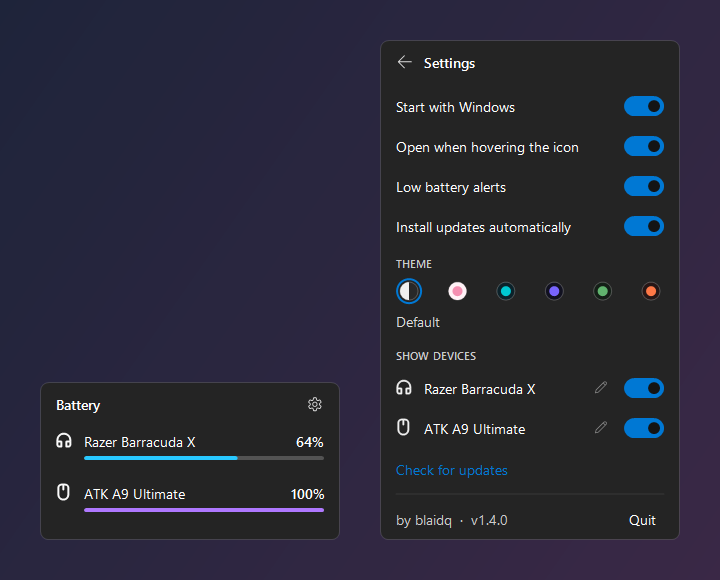
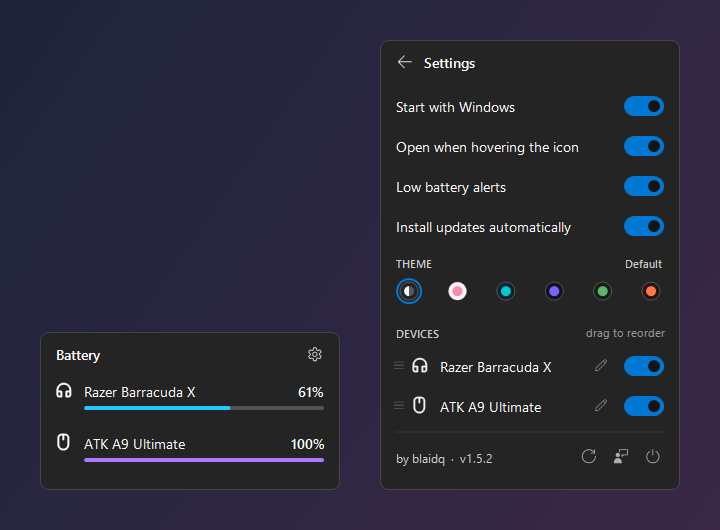
v1.5.2: alerts at 25/10/5, Default swatch, new screenshots
- Low battery alerts at 25%, 10% and 5% (devices like the ASUS Pugio II
  only report 25% steps, so 20% never fired).
- Default theme swatch drawn like the others.
- README: fresh screenshots; ASUS Pugio II marked as tested.

diff --git a/src/UI.cs b/src/UI.cs
@@ -577,8 +577,9 @@ class BatteryUI : ApplicationContext
         d.Active = (DateTime.Now - d.LastOk).TotalSeconds <= GraceSeconds;
         if (!d.Active) return;
         if (d.Last.Charging) { d.LastWarn = 101; return; }
-        // lowest threshold first: starting at 8% gives one alert (10%), not two in a row
-        foreach (int lvl in new[] { 5, 10, 20 })
+        // 25 / 10 / 5: some devices (e.g. ASUS Pugio II) only report 0-25-50-75-100, so 20 would never trigger.
+        // Lowest threshold first: starting at 8% gives one alert (10%), not two in a row.
+        foreach (int lvl in new[] { 5, 10, 25 })
             if (d.Last.Percent <= lvl && d.LastWarn > lvl)
             {
                 d.LastWarn = lvl;
@@ -1206,9 +1207,11 @@ class BatteryUI : ApplicationContext
             var inner = RectangleF.Inflate(cell, -4 * k, -4 * k);
             if (t.System)
             {
-                // half light / half dark circle = "follow Windows"
-                using (var br = new SolidBrush(Color.FromArgb(255, 240, 240, 240))) g.FillPie(br, inner.X, inner.Y, inner.Width, inner.Height, 90, 180);
-                using (var br = new SolidBrush(Color.FromArgb(255, 40, 40, 40))) g.FillPie(br, inner.X, inner.Y, inner.Width, inner.Height, 270, 180);
+                // same look as the others: dark disc with a dot; the dot is half light / half dark = "follow Windows"
+                using (var br = new SolidBrush(Color.FromArgb(255, 36, 36, 36))) g.FillEllipse(br, inner);
+                var dot = RectangleF.Inflate(inner, -inner.Width * 0.22f, -inner.Height * 0.22f);
+                using (var br = new SolidBrush(Color.FromArgb(255, 245, 245, 245))) g.FillPie(br, dot.X, dot.Y, dot.Width, dot.Height, 90, 180);
+                using (var br = new SolidBrush(Color.FromArgb(255, 90, 90, 90))) g.FillPie(br, dot.X, dot.Y, dot.Width, dot.Height, 270, 180);
             }
             else
             {

diff --git a/src/Program.cs b/src/Program.cs
@@ -15,8 +15,8 @@ using Microsoft.Win32;
 [assembly: AssemblyProduct("BatteryRings")]
 [assembly: AssemblyCompany("BatteryRings")]
 [assembly: AssemblyCopyright("GPL-3.0")]
-[assembly: AssemblyVersion("1.5.1.0")]
-[assembly: AssemblyFileVersion("1.5.1.0")]
+[assembly: AssemblyVersion("1.5.2.0")]
+[assembly: AssemblyFileVersion("1.5.2.0")]
 // Guvenlik: P/Invoke DLL'leri yalnizca System32'den yuklenir (exe'nin yanina konan sahte DLL calismaz)
 [assembly: DefaultDllImportSearchPaths(DllImportSearchPath.System32)]
 

diff --git a/README.md b/README.md
@@ -31,7 +31,8 @@ Hover over (or click) the icon to see every device in detail.
 | SteelSeries | Arctis 1 / 7 / 7+ / 9, Arctis Nova 3P / 5 / 7 / Pro Wireless | – |
 | HyperX | Cloud Alpha Wireless, Cloud Flight | – |
 | Corsair | Void family wireless headsets | – |
-| ASUS | ROG / TUF wireless mice: Keris, Gladius II / III, Chakram, Harpe Ace, Pugio II, Spatha X, Strix Carry / Impact, TUF M4, MD200 / MD301 | – |
+| ASUS | ROG Pugio II | ✅ |
+| ASUS | Other ROG / TUF wireless mice: Keris, Gladius II / III, Chakram, Harpe Ace, Spatha X, Strix Carry / Impact, TUF M4, MD200 / MD301 | – |
 
 Untested rows follow public protocol notes (see *Thanks*). If you own one, please open an issue saying whether it works.
 
@@ -39,7 +40,7 @@ Untested rows follow public protocol notes (see *Thanks*). If you own one, pleas
 - Devices that are not connected are not shown. With a single device, its icon sits in the middle of the ring;
   with none, the icon is an empty ring and the panel says "No devices found".
 - While charging, the ring turns yellow with a moving light; below 15% it turns red and pulses.
-- Optional alerts at 20%, 10% and 5%.
+- Optional alerts at 25%, 10% and 5%.
 
 ## Settings
 
